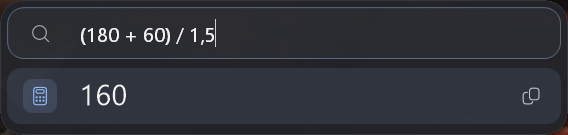
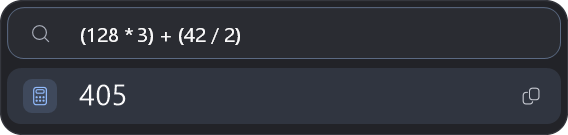
docs(readme): introduce Rustart in English with clean screenshots

diff --git a/README.md b/README.md
@@ -1,124 +1,36 @@
 # Rustart
 
-Rustart открывает приложения из меню «Пуск» и вычисляет выражения в одном поле. Нажмите **Win+R**, введите название программы или пример вроде `(180 + 60) / 1,5`. Язык интерфейса можно выбрать в трее. Названия установленных приложений берутся из Windows.
+Rustart is a simple, lightweight app launcher for Windows, written in Rust. Press **Win+R** and type a name to find desktop and Microsoft Store apps in your Start menu, or type a math expression to see the result. Rustart is free and open source under the [MIT license](LICENSE).
 
-![Поиск приложений Windows](assets/readme/search.png)
+![Rustart showing Microsoft Edge and Microsoft Store for the query “Microsoft”](assets/readme/search.png)
 
-## Запуск
+## Install on Windows
 
-Скачайте `rustart.exe` из [релизов GitHub](https://github.com/CKATEPTb/rustart/releases), откройте его и подтвердите установку в запросе Windows. При первом запуске Rustart распакует приложение в `%ProgramFiles%\CKATEPTb\Rustart\rustart.exe`. Окно поиска и значок в трее принадлежат установленной копии. При обычном запуске она работает с правами текущего пользователя. Чтобы сразу перейти в трей, запустите `.\rustart.exe background`.
+1. Download `rustart.exe` for Windows x64 from [GitHub Releases](https://github.com/CKATEPTb/rustart/releases), or [build it from source](#build-from-source) if the release list is empty.
+2. Run the file and approve the Windows prompt. Rustart installs to `%ProgramFiles%\CKATEPTb\Rustart` and adds an icon to the system tray. To update, run the new executable.
 
-Левый клик по значку открывает поиск, правый клик открывает настройки. Команда **Выйти из Rustart** завершает работу и освобождает горячую клавишу. Если содержимое EXE совпадает с установленной копией, Rustart сразу передаёт ей команду. Для обновления откройте скачанный EXE новой версии. После подтверждения Windows он заменит установленный файл и передаст команду обновлённой копии. После установки скачанный файл можно удалить.
+## Keyboard shortcuts
 
-## Окно поиска
-
-![Поле «Начните ввод» при открытии Rustart](assets/readme/empty.png)
-
-| Действие | Управление |
+| Key | Action |
 | --- | --- |
-| Открыть лаунчер | `Win+R` по умолчанию |
-| Переместить выделение | `↑`, `↓`, колесо мыши |
-| Открыть приложение | `Enter`, двойной щелчок или кнопка запуска справа |
-| Запросить права администратора для выбранной программы | `Ctrl+Shift+Enter` |
-| Показать расположение программы в Проводнике | Кнопка папки в её строке |
-| Скопировать результат вычисления | `Enter` или кнопка копирования |
-| Закрыть окно и вернуть фокус | `Esc` |
+| `Win+R` | Open Rustart |
+| `↑` / `↓` | Select a result |
+| `Enter` | Launch the selected app or copy the calculator result |
+| `Ctrl+Shift+Enter` | Run the selected app as administrator |
+| `Esc` | Close the launcher |
 
-Поле поиска открывается чуть выше середины активного монитора. Список под полем раскрывается, когда есть совпадения или готовый ответ калькулятора. Одновременно видны до трёх строк. Слева показаны системный значок и название приложения. Справа находятся кнопки запуска, запроса прав администратора и открытия папки. Стрелки перемещают выделение и прокручивают выдачу.
+The folder button beside an app opens its location in File Explorer. In PowerShell, open the folder containing `rustart.exe` and try `.\rustart.exe search terminal` or `.\rustart.exe calc "(128 * 3) + (42 / 2)"`.
 
-Если сам Rustart запущен от имени администратора, обычный запуск передаётся пользователю, которому принадлежит рабочий стол Windows. Для ярлыка на EXE сохраняются аргументы, рабочая папка и режим окна. Если программа требует повышения, Rustart предложит выбрать щит или нажать `Ctrl+Shift+Enter`. Если права проверить невозможно, запуск останавливается. Это ограничение затрагивает, в частности, ссылки ClickOnce `.appref-ms` и пакеты с разрешением на повышение прав.
+![Rustart calculating (128 × 3) + (42 ÷ 2) and showing 405](assets/readme/calculator.png)
 
-Интернет-ярлык `.url` может открыть веб-страницу или игру Steam, если Windows указывает прямой EXE для соответствующего протокола. Для игр поддерживаются ссылки `steam://rungameid/<ID>` и `steam://run/<ID>`.
+Right-click the tray icon to change the shortcut, start Rustart at sign-in, or choose from 12 interface languages. [View the tray menu](assets/readme/tray.png).
 
-Кнопка папки открывает Проводник и выделяет файл, на который указывает ярлык. Если цель недоступна, Проводник выделяет сам ярлык в меню «Пуск». Для пакетного приложения Rustart открывает папку установленной версии. Если Windows ограничивает доступ, Rustart показывает приложение в системной папке «Приложения».
+## Build from source
 
-Поиск учитывает точное имя, начало названия, отдельные слова и сокращения вроде `vsc` для Visual Studio Code. При первом запросе приложения Rustart собирает ярлыки из личного и общего меню «Пуск» и приложения Windows из AppsFolder. Пустое поле и калькулятор работают без загрузки каталога. Дальше Rustart ждёт уведомлений Windows об изменениях. При открытом окне выдача обновляется автоматически. Изменения, пришедшие в трее, обрабатываются при следующем поиске. Несколько изменений подряд обрабатываются вместе.
-
-Ярлыки одного EXE занимают одну строку и находятся по любому из своих названий. При запуске используются аргументы ярлыка, лучше всего совпавшего с запросом. У одноимённых программ с разными EXE под названием показан путь. Для доступных локальных файлов сравниваются идентификаторы файловой системы. Для сетевых и недоступных файлов используется нормализованный путь. Для пакетного приложения Rustart учитывает идентификатор Windows и может сопоставить его с прямым ярлыком на EXE из манифеста пакета.
-
-Значки приложений загружаются из Windows в фоне для видимых строк с учётом масштаба экрана. Пока окно открыто, кэш хранит до 48 значков. Через две секунды после закрытия Rustart освобождает кэш, шрифты и ресурсы отрисовки. Список приложений сохраняется для следующего поиска. Пиктограммы поля и кнопок встроены в EXE. [Microsoft Fluent UI System Icons](https://github.com/microsoft/fluentui-system-icons) · [Лицензия MIT](assets/licenses/fluentui-system-icons.txt).
-
-## Калькулятор
-
-![Вычисление выражения и копирование ответа](assets/readme/calculator.png)
-
-Поддерживаются `+`, `-`, `*`, `/`, степень `^`, остаток от деления `%` и скобки. Для десятичной части подходят точка и запятая. Калькулятор также понимает `×`, `÷`, знак минуса `−` и экспоненциальную запись вроде `2,5e3`. Вычисления используют числа двойной точности. Названия с цифрами, например `7-Zip`, обрабатывает поиск.
-
-## Настройки трея
-
-![Контекстное меню Rustart](assets/readme/tray.png)
-
-- **Запускать при входе в Windows** добавляет запуск в трее при входе текущего пользователя. Сразу под этой строкой появляется переключатель со щитом.
-- **От имени администратора** регистрирует в Планировщике Windows задачу для вашей учётной записи. Если Rustart запущен с обычными правами, Windows попросит подтвердить действие при включении переключателя. При последующих входах Планировщик запускает установленный Rustart в трее с повышенными правами без повторного запроса UAC. Отключение щита возвращает обычный автозапуск. Если Windows запрашивает подтверждение изменения и вы отменяете его, сохраняется прежний режим.
-- **Горячая клавиша** записывается прямо в меню. Нажмите эту строку, зажмите нужные клавиши вместе и отпустите. Подходят одиночные клавиши, сочетания с несколькими буквами и сочетания из одних модификаторов. Esc или щелчок вне меню отменяют запись. Если Windows отклоняет регистрацию, строка позволяет повторить попытку, а прежняя настройка сохраняется.
-- **Язык** предлагает те же 12 языков, что и Rustile, и режим **Как в Windows**. Выбор применяется сразу и запоминается.
-
-Язык и горячая клавиша сохраняются в `%LOCALAPPDATA%\Rustart\settings.json`. Автозапуск хранится в настройках Windows для текущего пользователя.
-
-## CLI
-
-Из папки `%ProgramFiles%\CKATEPTb\Rustart` команды можно вызывать в PowerShell.
+On Windows x64, install Rust with the MSVC toolchain, Visual Studio C++ Build Tools, and the Windows SDK. From the repository root, run this in PowerShell to create `dist\rustart.exe`.
 
 ```powershell
-.\rustart.exe show
-.\rustart.exe hide
-.\rustart.exe status
-.\rustart.exe refresh
-.\rustart.exe search "powershell"
-.\rustart.exe calc "2^3 + 0,5"
-.\rustart.exe quit
+.\scripts\package-release.ps1
 ```
 
-`status` печатает `running <PID>` и возвращает код 0, когда экземпляр готов. Если он остановлен, команда печатает `stopped` и возвращает 1. `search` и `calc` выводят результат прямо в терминал и работают при закрытом лаунчере.
-
-## Ресурсы
-
-В версии **0.4.3** размер LZX-пакета составляет 772 608 байт, размер установленного EXE составляет 1 164 800 байт. При проверке на Windows 11 x64 частный рабочий набор составлял 1,20 МиБ до первого открытия, 2,50 МиБ при поиске со значками и 2,49 МиБ через 13,5 секунды после возврата в трей. За пять секунд простоя счётчик процессорного времени показал прирост 0 мс.
-
-В Windows 11 x64 у версии **0.4.0** частный рабочий набор составлял 1,17 МиБ в трее до открытия, 2,48 МиБ в поиске со значками и 2,43–2,46 МиБ после возврата в трей. При первом поиске суммарный наблюдаемый пик с учётом временного процесса составил 4,91 МиБ. Полный рабочий набор, включая общие страницы Windows, составлял 10,37 МиБ сразу после запуска и 22,75–22,79 МиБ после возврата в трей. За пять секунд простоя счётчик процесса показал 0 мс процессорного времени. Размер EXE составляет 1 084 928 байт.
-
-<details>
-<summary>Замеры версий 0.3.5 и 0.3.6</summary>
-
-Обе релизные сборки проверены на одном компьютере с Windows 11 x64. В каждой ячейке указаны результаты для **0.3.5 → 0.3.6**, в МиБ. Частный рабочий набор показывает физическую память, принадлежащую только процессу. Полный рабочий набор также учитывает общие страницы, в том числе системные DLL. Размер EXE версии 0.3.6 составляет 921 600 байт.
-
-| Состояние | Частный рабочий набор | Выделено процессу (Private Bytes) | Полный рабочий набор |
-| --- | ---: | ---: | ---: |
-| В трее до первого открытия | 1,42 → 1,17 | 2,02 → 1,66 | 12,38 → 10,30 |
-| Открыт поиск, видны результаты со значками | 4,43 → 2,56 | 7,48 → 3,48 | 37,64 → 22,35 |
-| В трее через 2,5 с после работы | 6,16 → 2,36 | 9,53 → 3,18 | 51,77 → 22,31 |
-| В трее через 13,5 с после работы | 6,16 → 2,36 | 9,53 → 3,18 | 51,77 → 22,31 |
-
-Проверка включала запуск обычных и пакетных приложений, открытие их папок, изменение настроек и 17 циклов открытия и закрытия интерфейса. Для замеров в таблице оставался один процесс Rustart. По счётчику Windows за 5,01 секунды простоя он использовал 0 мс процессорного времени. При открытии версии 0.3.6 после 13,5 секунды в трее поле получило фокус за 7 мс, а первая строка появилась через 42 мс после ввода. В трёх повторах с паузой 2,5 секунды медианы составили 15 и 25 мс соответственно.
-
-В версии 0.3.6 каталог, значки и команды Проводника обслуживают временные процессы того же EXE. При первом поиске наблюдаемый суммарный пик частного рабочего набора вырос с 4,42 до 5,07 МиБ, а пик Private Bytes — с 7,48 до 7,94 МиБ. Измеритель опрашивал процессы с заданной паузой 15 мс. Первая строка по запросу появилась через 212 мс в 0.3.5 и 336 мс в 0.3.6. Абсолютные значения зависят от содержимого меню «Пуск», состояния кэшей и версии Windows.
-
-</details>
-
-## Сборка и проверка
-
-Для сборки нужны Rust с целевой платформой `x86_64-pc-windows-msvc`, MSVC Build Tools и Windows SDK. Проект использует нативные окна Win32, системный шрифт и цикл ожидания сообщений Windows.
-
-```powershell
-cargo build --release --locked
-cargo test --locked --all-targets
-cargo clippy --locked --all-targets -- -D warnings
-cargo fmt --check
-```
-
-Для сборки скачиваемого EXE выполните `.\scripts\package-release.ps1`. Сценарий собирает Rustart для Windows x64, сжимает приложение в CAB алгоритмом LZX с окном 2 МиБ, проверяет SHA-256 распакованных данных и создаёт `dist\rustart.exe`. В `target\release\rustart.exe` после обычного `cargo build --release` находится приложение для установки.
-
-Чтобы сменить версию релиза, отредактируйте [VERSION](VERSION) и выполните `.\scripts\sync-version.ps1` в PowerShell 7. Сценарий обновит версии пакетов Cargo и файлы блокировки. При сборке эта же версия записывается в свойства обоих EXE.
-
-GitHub Actions проверяет push и pull request в `development` и `production` на Windows x64. После успешной сборки при push в `production` workflow публикует LZX-сжатый `rustart.exe` в GitHub Releases и сверяет его SHA-256. Тег содержит версию и номер запуска, например `v0.4.3+build.8`.
-
-Сценарий `.\tests\release-package.ps1` проверяет упаковку, передачу аргументов и потоков CLI. Для проверки первого запуска и обновления закройте Rustart и запустите `.\tests\installation-smoke.ps1`. Сценарий использует временную папку установки. Сценарий `.\tests\desktop-smoke.ps1` проверяет сам лаунчер в интерактивном сеансе Windows с отдельной папкой настроек и временными ярлыками.
-
-- `-CheckReveal` проверяет открытие папки и выделение файла в Проводнике.
-- `-CheckCalculatorApp` открывает и закрывает установленный Калькулятор Windows. Вместе с `-CheckReveal` проверяет и переход к расположению этого приложения.
-- `-CheckRunDialog` проверяет возврат стандартного `Win+R` в русской, английской или немецкой оболочке.
-- `-CheckClipboard` проверяет `Enter` и кнопку копирования, записывая результаты в буфер обмена текущего сеанса.
-
-Сценарий `.\tests\startup-task.ps1` проверяет параметры задачи входа через Планировщик Windows. Ключ `-CheckRegistration` в консоли администратора дополнительно создаёт, проверяет и удаляет отдельную отключённую тестовую задачу. Ключ `-Installed` проверяет задачу текущего пользователя, если в трее включён повышенный автозапуск.
-
-Команда `.\tests\launch-privilege.ps1 -RequireHigh` из повышенной консоли проверяет права дочерних GUI- и консольных программ, аргументы и рабочую папку ярлыков, а также отказ обычного запуска для программ, требующих повышения.
+To change the version, edit [VERSION](VERSION) and run `.\scripts\sync-version.ps1` in PowerShell 7. GitHub Actions checks pushes and pull requests on `development` and `production`. When a push to `production` passes, the [release workflow](.github/workflows/windows.yml) publishes the LZX-compressed executable to GitHub Releases.
